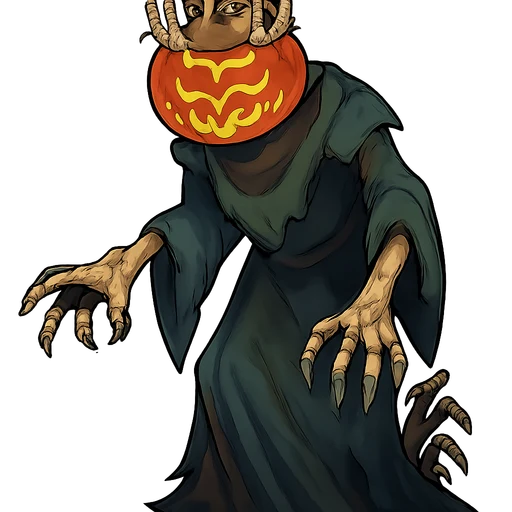
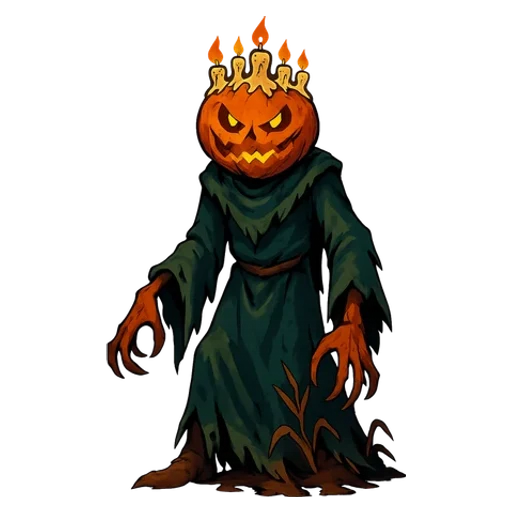
The Hollow King gets his head back
Luke: "the final boss's sprite, his head is cut off. And it reflects really
poorly on us. It makes everybody think, geez, no wonder this is AI."

It was the art, not the container. `.dlr-art` is `object-fit: contain` and
cannot crop; the file itself had opaque pixels on row 0 and row 511, 134 of
them on the first row alone. The figure was drawn too big for its own canvas.
Looking at it also turned up two things the report did not mention: a human
face AND a pumpkin stacked as two heads, and a third arm reaching in from the
lower right.

Four causes, all now fixed in the generator rather than in one file:

1. FRAMING. "Full body" was already in the prompt and buys nothing. Naming the
   edges with a percentage does, and that wording is lifted verbatim from
   gen-grove-art's BOSS constant where it fixed the same failure.
2. ASPECT. A square canvas round a tall standing figure is an invitation to
   crop, and the model took it twice even with the edges named. Bosses are now
   asked for in PORTRAIT and delivered SQUARE - trimmed and re-centred at 94%
   of the canvas, which also keeps them at the same on-stage scale as the foes
   around them. A new `tall` kind gives an ordinary foe the same treatment; the
   Wick Wraith needed it.
3. THE HEAD, SAID AS A NEGATIVE. "A crowned figure" whose candle crown sat
   "around its brow" gave the model a brow to draw a face on. It is now stated
   that the pumpkin IS the entire head, that there is no second head, and that
[…]

diff --git a/src/lib/marketplace/delve-catalog.js b/src/lib/marketplace/delve-catalog.js
@@ -179,6 +179,13 @@ export const DUNGEONS = [
 // risk, less money, and nothing on screen explaining why. The LOOT table stays where it is: the crypt's
 // payout is the candy, the gift boxes and the Harvest's End set, and that is the part that should not look
 // like anybody else's.
+// ⚠ A REDRAWN SPRITE NEEDS A NEW URL OR NOBODY SEES IT. Same path plus new bytes means every member who
+// has already walked the crypt keeps the OLD picture until their cache expires — which for the one person
+// who reported the problem is the one person most likely to have it cached. The Hollow King, the Wick
+// Wraith and the Sheet Shade were redrawn on 2026-10-13 (heads and hems sliced off at the canvas edge);
+// bump this whenever any of those three files change. See [[redrawn-art-must-be-versioned]].
+const CRYPT_ART_V = 2;
+
 export const HALLOWEEN_DUNGEON = {
     // ⚠ minLevel 0 IS THE DOOR; `tier` IS THE PAY. They were one field, and in four places `minLevel >= 30`
     // decides whether a floor pays a GOLD chest or an iron one. Dropping the gate to 0 without splitting
@@ -189,13 +196,13 @@ export const HALLOWEEN_DUNGEON = {
     bg: "/images/delves/bg-lanterncrypt.webp",
     loot: { parts: [2, 4], chest: "iron", bigChest: "gold", frags: [5, 8], gear: ["rare", "epic"], gearOdds: 0.075 },
     foeX: 2.9, bossX: 7.0, dmg: [30, 46], goldPer: [48, 82], xpPer: [12, 19],
-    boss: { id: "lanterncrypt_boss", name: "The Hollow King", dmg: [41, 62], sprite: "/images/delves/foe-hollow-king.webp",
+    boss: { id: "lanterncrypt_boss", name: "The Hollow King", dmg: [41, 62], sprite: `/images/delves/foe-hollow-king.webp?v=${CRYPT_ART_V}`,
         blurb: "It wears a crown of candle stubs, and every one of them is still lit." },
     foes: [
-        { id: "wickwraith", name: "Wick Wraith", sprite: "/images/delves/foe-wickwraith.webp" },
+        { id: "wickwraith", name: "Wick Wraith", sprite: `/images/delves/foe-wickwraith.webp?v=${CRYPT_ART_V}` },
         { id: "gourdling", name: "Gourdling", sprite: "/images/delves/foe-gourdling.webp" },
         { id: "barrowhound", name: "Barrow Hound", sprite: "/images/delves/foe-barrowhound.webp" },
-        { id: "sheetshade", name: "Sheet Shade", sprite: "/images/delves/foe-sheetshade.webp" },
+        { id: "sheetshade", name: "Sheet Shade", sprite: `/images/delves/foe-sheetshade.webp?v=${CRYPT_ART_V}` },
     ],
 };
 
